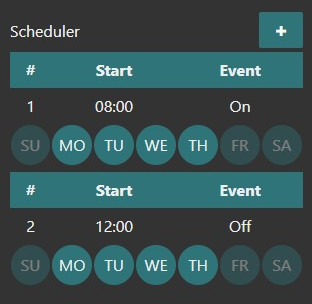
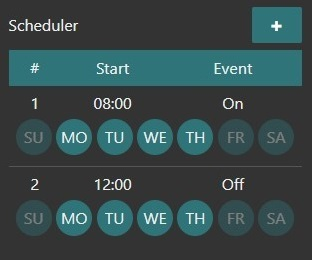
gui improvements

diff --git a/time-scheduler.js b/time-scheduler.js
@@ -31,196 +31,191 @@ module.exports = function(RED) {
 	
 		const styles = String.raw`
 		<style>
-			#` + divPrimary + ` {
+			#${divPrimary} {
+				height: ${86 + (config.height*80)}px;
 				padding-left: 6px;
 				padding-right: 7px;
 			}
-			#` + divPrimary + ` tr {
-				height: 36px;
-				text-align: center;
-				cursor: pointer;
-			}
-			#` + divPrimary + ` tr:focus {
-				outline: 0;
-			}
-			#` + divPrimary + ` md-input-container {
+			#${divPrimary} md-input-container {
 				width: 100%;
 			}
-			#` + divPrimary + ` md-select md-select-value {
+			#${divPrimary} md-select md-select-value {
 				color: var(--nr-dashboard-widgetTextColor);
 				border-color: var(--nr-dashboard-pageTitlebarBackgroundColor);
 			}
-			#` + divPrimary + ` md-select[disabled] md-select-value {
+			#${divPrimary} md-select[disabled] md-select-value {
 				color: var(--nr-dashboard-widgetTextColor);
 				opacity: 0.7;
 			}
-			.weekDay-` + uniqueId + ` {
-				width: 100%;
-				max-width: 40px;
-				display:inline-block;
-				line-height: 40px;
-				border-radius: 50%;
+			#${divPrimary} .md-button {
+				background-color: var(--nr-dashboard-pageTitlebarBackgroundColor);
+			}
+			#${divPrimary} .md-subheader {
+				top: -3px !important;
+			}
+			#${divPrimary} .md-subheader .md-subheader-inner {
 				color: var(--nr-dashboard-widgetTextColor);
 				background-color: var(--nr-dashboard-pageTitlebarBackgroundColor);
+				padding: 6px 5px;
+			}
+			.weekDay-${uniqueId} {
+				color: var(--nr-dashboard-widgetTextColor);
+				background-color: var(--nr-dashboard-pageTitlebarBackgroundColor);
+				width: 36px;
+				line-height: 36px;
+				display: inline-block;
+				border-radius: 50%;
 				opacity: 0.4;
 			}
-			.weekDayActive-` + uniqueId + ` {
+			.weekDayActive-${uniqueId} {
 				opacity: 1;
 			}
-			.timerhead-` + uniqueId + `, #` + divPrimary + ` .md-button {
-				background-color: var(--nr-dashboard-pageTitlebarBackgroundColor);
-			}
-		</style>`
-		;
+		</style>
+		`;
 
 		const timerBody = String.raw`
-		<div id="` + divPrimary + `" ng-init='init(` + JSON.stringify(config) + `)' style="height: ` + (40 + (config.height*125)) + `px;">
+		<div id="${divPrimary}" ng-init='init(${JSON.stringify(config)})'>
 			<div layout="row" layout-align="space-between center" style="max-height: 50px;">
-				<span flex="70" ng-show="devices.length <= 1" style="height:50px; line-height: 50px;"> ` + config.devices[0] + ` </span>
+				<span flex="70" ng-show="devices.length <= 1" style="height:50px; line-height: 50px;"> ${config.devices[0]} </span>
 				<span flex="70" ng-show="devices.length > 1">
 					<md-input-container>
 						<md-select class="nr-dashboard-dropdown" ng-model="myDeviceSelect" ng-change="showStandardView()" aria-label="Select device" ng-disabled="isEditMode">
-							<md-option value="overview">` + RED._("time-scheduler.ui.overview") + `</md-option>
+							<md-option value="overview"> ${RED._("time-scheduler.ui.overview")} </md-option>
 							<md-option ng-repeat="device in devices" value={{$index}}> {{devices[$index]}} </md-option>
 						</md-select>
 					</md-input-container>
 				</span>
 				<span flex="30" layout="row" layout-align="end center">
-					<md-button id="addTimerBtn-` + uniqueId + `" style="width: 50px; height: 36px; margin: 0;" aria-label="Add" ng-click="toggleViews()"> </md-button>
+					<md-button id="addTimerBtn-${uniqueId}" style="width: 50px; height: 36px; margin: 0;" aria-label="Add" ng-click="toggleViews()"> </md-button>
 				</span>
 			</div>
-			<div id="messageBoard-` + uniqueId + `" style="display:none;"> <p> </p> </div>
-			<div id="overview-` + uniqueId + `" style="display:none; overflow:hidden">
+			<div id="messageBoard-${uniqueId}" style="display:none;"> <p> </p> </div>
+			<div id="overview-${uniqueId}" style="display:none;">
 				<div ng-repeat="device in devices track by $index">
-					<h4> {{devices[$index]}} </h4>
-					<span ng-repeat="timer in filteredValues = (timers | filter:{ output: $index.toString() }:true )" style="white-space: nowrap">
-						<span style="float:left; max-width: 100px;">
-							{{millisToTime(timer.starttime)}}-${config.eventMode ? `{{booleanToReadable(timer.event)}}` : `{{millisToTime(timer.endtime)}}`}
-						</span>
-						<br ng-if="(timer.hasOwnProperty('event') && timer.event.length > 7)">
-						<span style="float:right;">
-							<span ng-repeat="day in days | limitTo : ${config.startDay}-7" ng-init="dayIndex=$index+${config.startDay}">{{timer.days[localDayToUtc(timer,dayIndex)]===1 ? days[dayIndex]+"&nbsp;" : ""}}</span>
-							<span ng-repeat="day in days | limitTo : -${config.startDay}" ng-init="dayIndex=$index">{{timer.days[localDayToUtc(timer,dayIndex)]===1 ? days[dayIndex]+"&nbsp;" : ""}}</span>
-						</span>
-						<br>
-					</span>
-					<span ng-if="!filteredValues.length">------</span>
-					<hr>
+					<md-list flex ng-cloak ng-if="(filteredValues = (timers | filter:{ output: $index.toString() }:true)).length">
+						<md-subheader> <span class="md-subhead"> {{devices[$index]}} </span> </md-subheader>
+						<md-list-item ng-repeat="timer in filteredValues" style="min-height: 25px; height: 25px; padding: 0 2px;{{$index==0? '' : 'border-top: 1px solid var(--nr-dashboard-groupBorderColor)'}}">
+							<span style="overflow-x: hidden;">
+								{{millisToTime(timer.starttime)}}&#8209;${config.eventMode ? `{{booleanToReadable(timer.event)}}` : `{{millisToTime(timer.endtime)}}`}
+							</span>
+							<div class="md-secondary">
+								<span ng-repeat="day in days | limitTo : ${config.startDay}-7" ng-init="dayIndex=$index+${config.startDay}">{{timer.days[localDayToUtc(timer,dayIndex)]===1 ? ($index!=0 ? "&nbsp;" : "")+days[dayIndex] : ""}}</span>
+								<span ng-repeat="day in days | limitTo : -${config.startDay}" ng-init="dayIndex=$index">{{timer.days[localDayToUtc(timer,dayIndex)]===1 ? ($index!=0 ? "&nbsp;" : "")+days[dayIndex] : ""}}</span>
+							</div>
+						</md-list-item>
+					<md-list>
 				</div>
+				<div ng-if="timers.length == 0"> <p> ${RED._("time-scheduler.ui.emptyOverview")} <p> </div>
 			</div>
-			<div id="timersView-` + uniqueId + `" style="margin-top: 4px;">
-				<table style="width: 100%; border-spacing: 0px;">
-				<tbody>
-					<tr ng-repeat-start="timer in timers | filter:{ output: myDeviceSelect }:true track by $index" ng-click="showAddView(timers.indexOf(timer))" class="timerhead-` + uniqueId + `">
-						<th> # </th>
-						${config.eventMode ? `
-						<th colspan="3">` + RED._("time-scheduler.ui.start") + `</th>
-						<th colspan="3">` + RED._("time-scheduler.ui.event") + `</th>
-						` : `
-						<th colspan="2">` + RED._("time-scheduler.ui.start") + `</th>
-						<th colspan="2">` + RED._("time-scheduler.ui.end") + `</th>
-						<th colspan="2">` + RED._("time-scheduler.ui.duration") + `</th>
-						`}
-					</tr>
-					<tr ng-click="showAddView(timers.indexOf(timer))">
-						<td> {{$index+1}} </td>
-						${config.eventMode ? `
-						<td colspan="3"> {{millisToTime(timer.starttime)}} </td>
-						<td colspan="3"> {{booleanToReadable(timer.event)}} </td>
-						` : `
-						<td colspan="2"> {{millisToTime(timer.starttime)}} </td>
-						<td colspan="2"> {{millisToTime(timer.endtime)}} </td>
-						<td colspan="2"> {{minutesToReadable(diff(timer.starttime,timer.endtime))}} </td>
-						`}
-					</tr>
-					<tr ng-click="showAddView(timers.indexOf(timer))">
-						<td ng-repeat="day in days | limitTo : ${config.startDay}-7" ng-init="dayIndex=$index+${config.startDay}" style="width:14%;margin: 0 2%;"> 
-							<div class="weekDay-` + uniqueId + ` {{(timer.days[localDayToUtc(timer,dayIndex)]) ? 'weekDayActive-` + uniqueId + `' : ''}}">
-								{{days[dayIndex]}}	
+			<div id="timersView-${uniqueId}">
+				<md-list flex ng-cloak style="text-align: center">
+					<md-subheader> 
+						<div layout="row" class="md-subhead">
+							<span flex=""> # </span>
+							${config.eventMode ? `
+							<span flex="40"> ${RED._("time-scheduler.ui.start")} </span>
+							<span flex="45"> ${RED._("time-scheduler.ui.event")} </span>
+							` : `
+							<span flex="30"> ${RED._("time-scheduler.ui.start")} </span>
+							<span flex="30"> ${RED._("time-scheduler.ui.end")} </span>
+							<span flex="25"> ${RED._("time-scheduler.ui.duration")} </span>
+							`}
+						</div>
+					</md-subheader>
+					<md-list-item class="md-2-line" style="height: 80px; padding: 0 5px;{{$index==0? '' : 'border-top: 1px solid var(--nr-dashboard-groupBorderColor)'}}" ng-repeat="timer in timers | filter:{ output: myDeviceSelect }:true track by $index">
+						<div class="md-list-item-text" ng-click="showAddView(timers.indexOf(timer))">
+							<div layout="row">
+								<span flex=""> {{$index+1}} </span>
+								${config.eventMode ? `
+								<span flex="40"> {{millisToTime(timer.starttime)}} </span>
+								<span flex="45"> {{booleanToReadable(timer.event)}} </span>
+								` : `
+								<span flex="30"> {{millisToTime(timer.starttime)}} </span>
+								<span flex="30"> {{millisToTime(timer.endtime)}} </span>
+								<span flex="25"> {{minutesToReadable(diff(timer.starttime,timer.endtime))}} </span>
+								`}
 							</div>
-						</td>
-						<td ng-repeat="day in days | limitTo : -${config.startDay}" ng-init="dayIndex=$index" style="width:14%;margin: 0 2%;"> 
-							<div class="weekDay-` + uniqueId + ` {{(timer.days[localDayToUtc(timer,dayIndex)]) ? 'weekDayActive-` + uniqueId + `' : ''}}">
-								{{days[dayIndex]}}	
+							<div layout="row" style="padding-top: 6px; padding-bottom: 6px;">
+								<span flex="" ng-repeat="day in days | limitTo : ${config.startDay}-7" ng-init="dayIndex=$index+${config.startDay}">
+									<span class="weekDay-${uniqueId} {{(timer.days[localDayToUtc(timer,dayIndex)]) ? 'weekDayActive-${uniqueId}' : ''}}"> {{days[dayIndex]}} </span>
+								</span>
+								<span flex="" ng-repeat="day in days | limitTo : -${config.startDay}" ng-init="dayIndex=$index" class="weekDay-${uniqueId} {{(timer.days[localDayToUtc(timer,dayIndex)]) ? 'weekDayActive-${uniqueId}' : ''}}">
+									<span class="weekDay-${uniqueId} {{(timer.days[localDayToUtc(timer,dayIndex)]) ? 'weekDayActive-${uniqueId}' : ''}}"> {{days[dayIndex]}} </span>
+								</span>
 							</div>
-						</td> 
-					</tr>
-					<tr ng-repeat-end style="height: 6px;"> </tr>
-				</tbody>
-				</table>
+						</div>
+					</md-list-item>
+				<md-list>
 			</div>
-			<div id="addTimerView-` + uniqueId + `" style="display:none; position: relative;">
+			<div id="addTimerView-${uniqueId}" style="display:none; position: relative;">
 				<form ng-submit="addTimer()" style="width: 100%; position: absolute;">
 					<div layout="row" style="max-height: 60px;">
 						<md-input-container flex="50">
-							<label style="color: var(--nr-dashboard-widgetTextColor)">` + RED._("time-scheduler.ui.starttime") + `</label>
-							<input id="timerStarttime-` + uniqueId + `" value="00:00" type="time" required pattern="^([0-1][0-9]|2[0-3]):([0-5][0-9])$">
+							<label style="color: var(--nr-dashboard-widgetTextColor)">${RED._("time-scheduler.ui.starttime")}</label>
+							<input id="timerStarttime-${uniqueId}" value="00:00" type="time" required pattern="^([0-1][0-9]|2[0-3]):([0-5][0-9])$">
 							<span class="validity"></span>
 						</md-input-container>
 						${config.eventMode ? `
 						${config.customPayload ? `
 						<md-input-container flex="50">
-							<label style="color: var(--nr-dashboard-widgetTextColor)">` + RED._("time-scheduler.ui.event") + `</label>
+							<label style="color: var(--nr-dashboard-widgetTextColor)">${RED._("time-scheduler.ui.event")}</label>
 							<input ng-model="timerEvent" required autocomplete="off">
 						</md-input-container>
 						` : `
 						<md-input-container flex="50">
-							<label style="color: var(--nr-dashboard-widgetTextColor)">` + RED._("time-scheduler.ui.event") + `</label>
+							<label style="color: var(--nr-dashboard-widgetTextColor)">${RED._("time-scheduler.ui.event")}</label>
 							<md-select class="nr-dashboard-dropdown" ng-model="timerEvent">
-								<md-option ng-value=true selected>` + RED._("time-scheduler.ui.on") + `</md-option>
-								<md-option ng-value=false >` + RED._("time-scheduler.ui.off") + `</md-option>
+								<md-option ng-value=true selected>${RED._("time-scheduler.ui.on")}</md-option>
+								<md-option ng-value=false >${RED._("time-scheduler.ui.off")}</md-option>
 							</md-select>
 						</md-input-container>
 						`}
 						` : `
 						<md-input-container flex="45">
-							<label style="color: var(--nr-dashboard-widgetTextColor)">` + RED._("time-scheduler.ui.endtime") + `</label>
-							<input id="timerEndtime-` + uniqueId + `" value="00:00" type="time" required pattern="^([0-1][0-9]|2[0-3]):([0-5][0-9])$">
+							<label style="color: var(--nr-dashboard-widgetTextColor)">${RED._("time-scheduler.ui.endtime")}</label>
+							<input id="timerEndtime-${uniqueId}" value="00:00" type="time" required pattern="^([0-1][0-9]|2[0-3]):([0-5][0-9])$">
 							<span class="validity"></span>
 						</md-input-container>
 						`}
 					</div>
 					<div layout="row" style="max-height: 50px;">
 						<md-input-container>
-							<label style="color: var(--nr-dashboard-widgetTextColor)">` + RED._("time-scheduler.ui.daysActive") + `</label>
-							<md-select class="nr-dashboard-dropdown" multiple="true" placeholder="` + RED._("time-scheduler.ui.daysActive") + `" ng-model="myMultipleSelect">
-								<md-option ng-repeat="day in days | limitTo : ${config.startDay}-7" ng-init="$index=$index+${config.startDay}" value={{$index}}> {{days[$index]}}  </md-option>
-								<md-option ng-repeat="day in days | limitTo : -${config.startDay}" value={{$index}}> {{days[$index]}}  </md-option>
+							<label style="color: var(--nr-dashboard-widgetTextColor)">${RED._("time-scheduler.ui.daysActive")}</label>
+							<md-select class="nr-dashboard-dropdown" multiple="true" placeholder="${RED._("time-scheduler.ui.daysActive")}" ng-model="myMultipleSelect">
+								<md-option ng-repeat="day in days | limitTo : ${config.startDay}-7" ng-init="$index=$index+${config.startDay}" value={{$index}}> {{days[$index]}} </md-option>
+								<md-option ng-repeat="day in days | limitTo : -${config.startDay}" value={{$index}}> {{days[$index]}} </md-option>
 							</md-select>
 						</md-input-container>
 					</div>
 					<div layout="row" layout-align="space-between end" style="height: 40px;">
-						<md-button style="margin: 1px" ng-click="deleteTimer()" ng-show="hiddenTimerIndex !== undefined">` + RED._("time-scheduler.ui.delete") + `</md-button>
+						<md-button style="margin: 1px" ng-click="deleteTimer()" ng-show="hiddenTimerIndex !== undefined">${RED._("time-scheduler.ui.delete")}</md-button>
 						<span ng-show="hiddenTimerIndex === undefined"> </span>
-						<md-button style="margin: 1px" type="submit">` + RED._("time-scheduler.ui.save") + `</md-button>
+						<md-button style="margin: 1px" type="submit">${RED._("time-scheduler.ui.save")}</md-button>
 					</div>
 				</form>
 				<div ng-show="loading" style="width:100%; position: absolute; z-index:10; opacity: 0.9; height:150px; line-height: 150px; background-color: var(--nr-dashboard-pageTitlebarBackgroundColor);">
-					<center>` + RED._("time-scheduler.ui.loading") + `<center>
+					<center>${RED._("time-scheduler.ui.loading")}<center>
 				</div>
 			</div>
 		</div>
 		`;
 
-		const html = String.raw`
-		${styles}		
-		${timerBody}`
-		return html;
+		return String.raw`${styles}${timerBody}`;
 	}
 
 	function checkConfig(config, node) {
 		if (!config) {
-		  node.error(RED._("ui_time_scheduler.error.no-config"));
-		  return false;
+			node.error(RED._("ui_time_scheduler.error.no-config"));
+			return false;
 		}
 		if (!config.hasOwnProperty("group")) {
-		  node.error(RED._("ui_time_scheduler.error.no-group"));
-		  return false;
+			node.error(RED._("ui_time_scheduler.error.no-group"));
+			return false;
 		}
 		return true;
 	}
 
-    function TimeSchedulerNode(config) {
+	function TimeSchedulerNode(config) {
 		try {
 			let ui = undefined;
 			if(ui === undefined) {
@@ -242,12 +237,7 @@ module.exports = function(RED) {
 			if (!config.hasOwnProperty("name") || config.name === "") config.name = "Time-Scheduler";
 			if (!config.hasOwnProperty("devices") || config.devices.length === 0) config.devices = [config.name];
 			// END check props
-			config.i18n = {	payloadWarning: RED._("time-scheduler.ui.payloadWarning"), 
-							nothingPlanned: RED._("time-scheduler.ui.nothingPlanned"), 
-							alertTimespan: RED._("time-scheduler.ui.alertTimespan"),
-							days: RED._("time-scheduler.ui.days", { returnObjects: true }),
-							on: RED._("time-scheduler.ui.on"),
-							off: RED._("time-scheduler.ui.off")};
+			config.i18n = RED._("time-scheduler.ui", { returnObjects: true });
 			
 			if (checkConfig(config, node)) {
 				const done = ui.addWidget({
@@ -278,6 +268,7 @@ module.exports = function(RED) {
 
 								if (!element.output) element.output = 0;
 							});
+							msg.payload = msg.payload.filter(t => t.output < config.devices.length);
 						} catch(e) {
 							valid = false;
 						}
@@ -609,7 +600,7 @@ module.exports = function(RED) {
 		} catch(error) {
 			console.log("TimeSchedulerNode:", error);
 		}
-    }
+	}
 	RED.nodes.registerType("ui_time_scheduler",TimeSchedulerNode);
 
 	const uiPath = ((RED.settings.ui || {}).path) || 'ui';

diff --git a/CHANGELOG.md b/CHANGELOG.md
@@ -1,6 +1,13 @@
 # Changelog
 
 ----------
+## [v1.5.2] - 2021-01-18
+
+### Changed
+- gui improvements
+- overview only shows devices with timers
+
+----------
 ## [v1.5.1] - 2021-01-13
 
 ### Fixed
